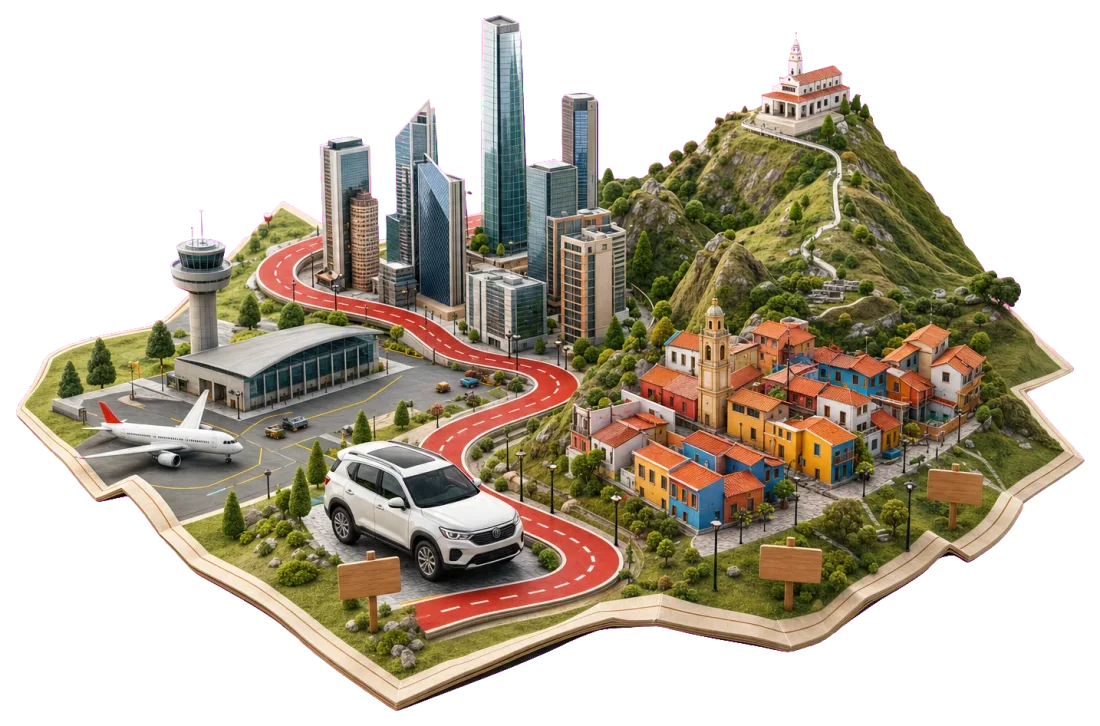
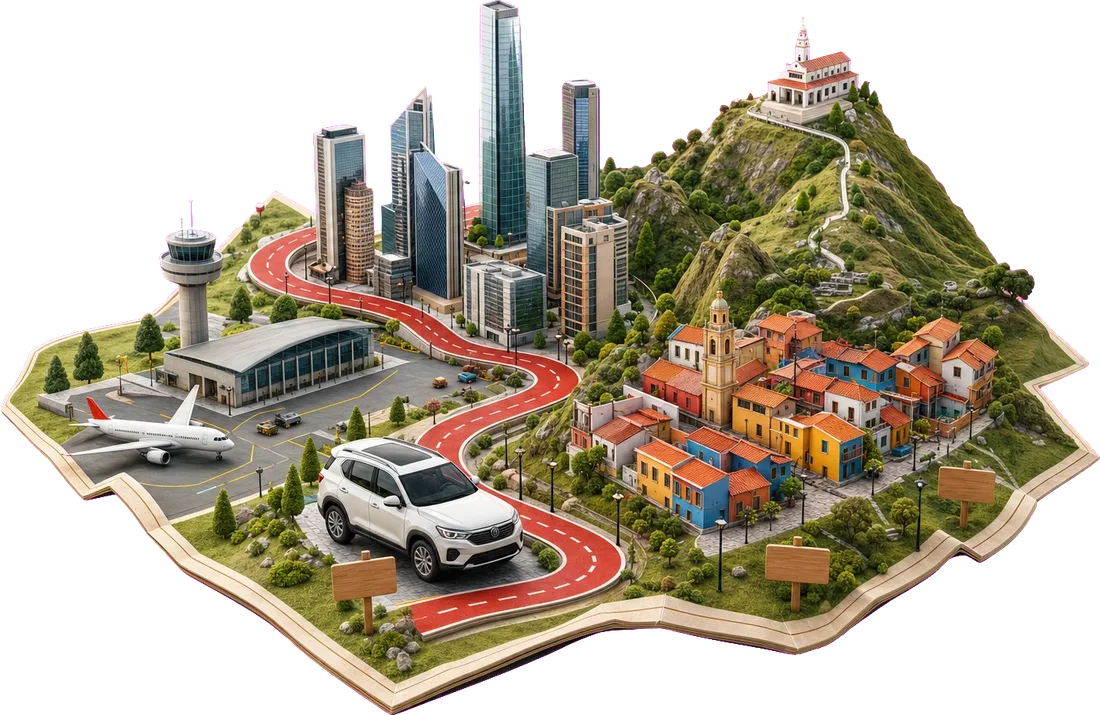
feat(alquilame): enlarge Bogotá diorama to match the intro copy height
The half-column diorama was much shorter than the tall intro paragraph. Move
the intro to a 50/50 grid and let the image fill its half, bringing its height
to ~93% of the copy (380px vs 407px at desktop). Source webp trimmed of its
transparent border so the scene fills the frame.

diff --git a/packages/ui-alquilame/app/components/city/SeoContent.vue b/packages/ui-alquilame/app/components/city/SeoContent.vue
@@ -69,14 +69,15 @@
       <div
         class="mx-auto px-4 sm:px-6 lg:px-8"
         :class="dioramaSrc
-          ? 'max-w-7xl grid items-center gap-6 lg:gap-12 lg:grid-cols-[minmax(0,19rem)_1fr]'
+          ? 'max-w-7xl grid items-center gap-6 lg:gap-12 lg:grid-cols-2'
           : 'max-w-3xl'"
       >
         <!--
-          Per-city diorama (Bogotá today): a small transparent 3D scene, LEFT of
-          the copy on desktop, below it on mobile. A cutout, not a framed photo:
-          object-contain, no card/rounded/shadow, so it floats on the white
-          section. Only renders for cities present in CITY_DIORAMA.
+          Per-city diorama (Bogotá today): a transparent 3D scene, LEFT of the
+          copy on desktop, below it on mobile. Sized to a full half-column so its
+          height comes up close to the paragraph's (the copy is tall). A cutout,
+          not a framed photo: object-contain, no card/rounded/shadow, so it
+          floats on the white section. Only for cities present in CITY_DIORAMA.
         -->
         <div v-if="dioramaSrc" class="order-2 lg:order-1">
           <NuxtImg
@@ -84,8 +85,8 @@
             :alt="`Explora ${city?.name} con tu carro de alquiler`"
             loading="lazy"
             format="webp"
-            sizes="304px"
-            class="w-full max-w-xs mx-auto h-auto object-contain select-none"
+            sizes="(min-width: 1024px) 600px, 100vw"
+            class="w-full h-auto object-contain select-none"
             draggable="false"
           />
         </div>